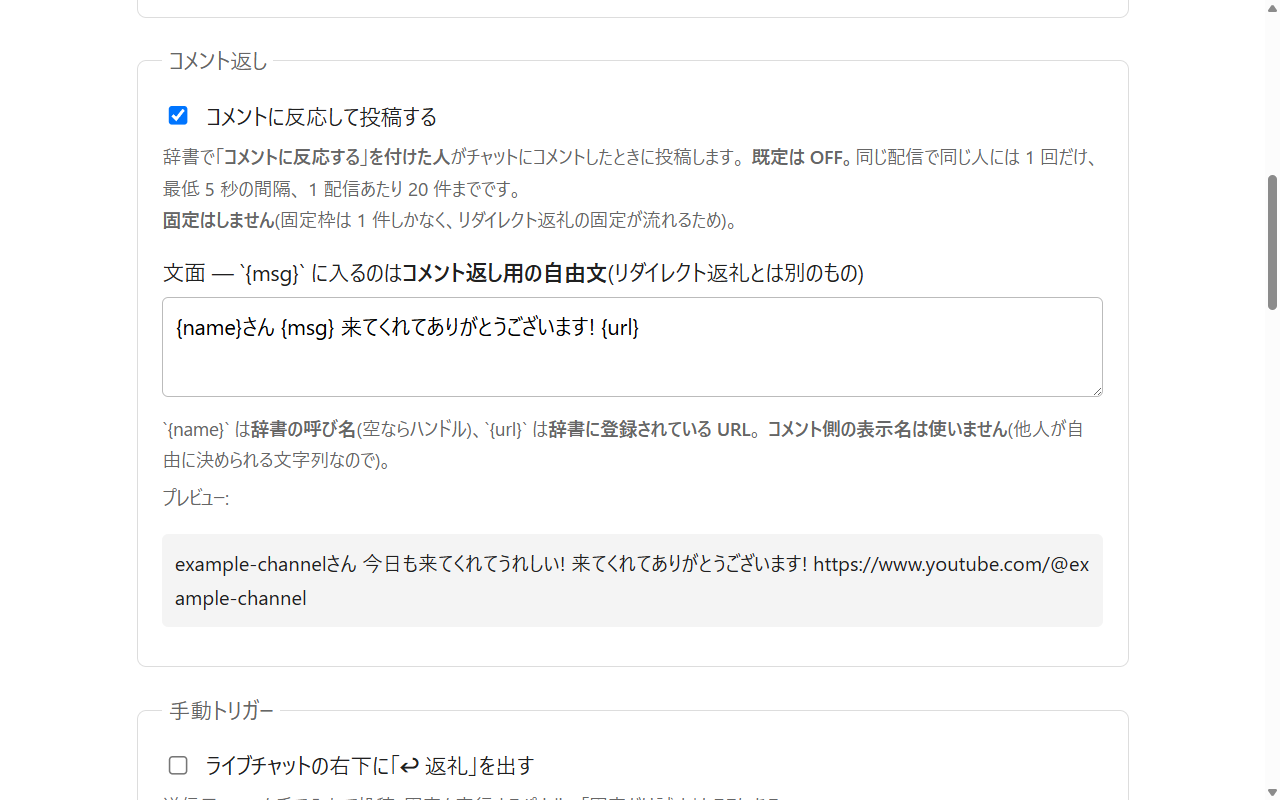
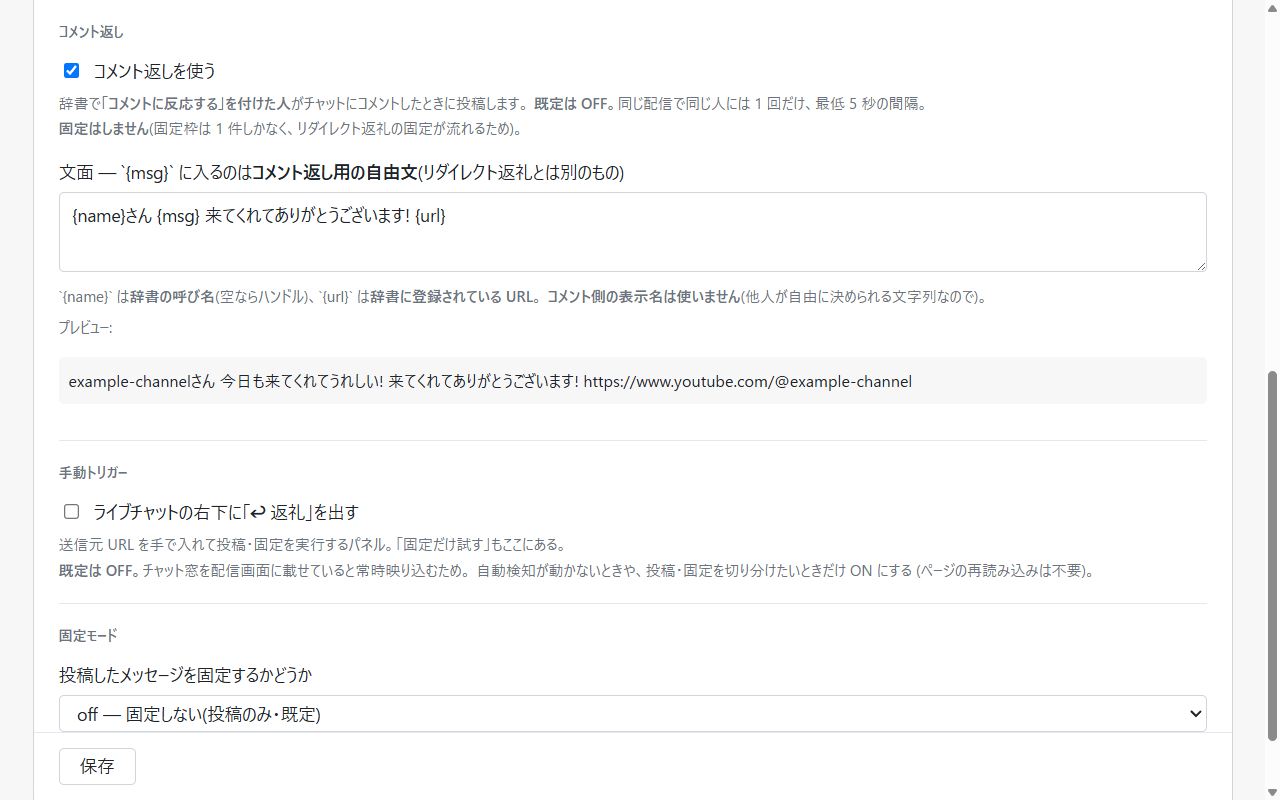
docs(007): 設定画面のスクリーンショットを 007 の画面で撮り直す (T12) (#161)
007 で設定画面を 4 タブ・左右分割に作り直したので、docs/assets の 4 枚が
すべて旧画面(fieldset の枠 / 削除済みのクールダウン欄 / ▸ の展開 / 旧ラベル)
のままになっていた。T12 が名指ししていた 1 と 3 に加え、同じく古くなった
2(固定モード)と 4(コメント返し)も撮り直した。

- npm run site-assets の版下を 1280x800 で撮り、PIL で 24 ビット RGB に変換
  (ストアの要件: アルファ無し)
- 見本データ(make-site-assets.mjs)を 007 に追随:
  zoom を 960px 前提に / storage.get の配列呼び出しに対応 /
  iconDataUrl・channelName を追加(アイコンは生成した SVG。実在チャンネルは使わない)/
  pinMode を既定の off に
- docs/index.html の alt を撮り直した絵に合わせた(1 / 2 / 3)
- store-submission.md の撮り直し日を更新

Closes #141

diff --git a/docs/index.html b/docs/index.html
@@ -432,7 +432,7 @@
           width="1280"
           height="800"
           loading="lazy"
-          alt="設定画面の上部。自動検知のチェックボックス、投稿文テンプレートの入力欄、その下に差し込み後のプレビューが表示されている"
+          alt="設定画面の上部。基本設定・辞書・履歴・開発の 4 つのタブのうち基本設定が選ばれ、studio.youtube.com でしか動かない旨の案内、「リダイレクト返礼を使う」のチェックボックス、投稿文テンプレートの入力欄、その下に差し込み後のプレビューが表示されている。下端に保存ボタン"
         />
         <figcaption>投稿文はプレビューを見ながら編集できる</figcaption>
       </figure>
@@ -491,7 +491,7 @@
           width="1280"
           height="800"
           loading="lazy"
-          alt="固定モードのプルダウンで ifEmpty が選ばれている"
+          alt="基本設定タブの下部。手動トリガーのチェックボックスと、固定モードのプルダウンで既定の off が選ばれている"
         />
         <figcaption>
           固定モードは事故の起きうる設定。<code>always</code> は告知などの既存の固定を消す
@@ -535,7 +535,7 @@
           width="1280"
           height="800"
           loading="lazy"
-          alt="呼び名の辞書の表。ハンドルと呼び名の行が並び、2 行目が開いて「コメントに反応する」のチェック、チャンネル ID、リダイレクト返礼用とコメント返し用の自由文 2 本が見えている。チャンネル ID を取得できていない行は色が付き ⚠ が出ている。末尾に新規登録用の入力欄がある"
+          alt="辞書タブ。左の一覧に 1 行 1 人でアイコン(未取得の行は頭文字の丸)・呼び名・ハンドルが並び、呼び名が空の行はチャンネルの表記名がグレーで出ている。チャンネル ID を取得できていない行には ⚠ が出ている。選んだ 1 行の詳細が右のペインに開き、リダイレクト返礼用とコメント返し用の自由文 2 本、「コメントに反応する」のチェックが見えている。左の上に絞り込み欄と「アイコンと表記名を取得」、下に手動で追加する欄がある"
         />
         <figcaption>
           リダイレクトを受けた相手は自動で載る (呼び名も自由文も空のまま)。<b>左の一覧から行をクリックすると、右のペインに自由文 2 本と「コメントに反応する」が開く</b>。<b>⚠ の行はコメントに反応しない</b>

diff --git a/docs/store-submission.md b/docs/store-submission.md
@@ -200,7 +200,7 @@ YouTube のライブ配信で他チャンネルからのライブリダイレク
 | | 要件 (実物の表記) | 手元のもの |
 |---|---|---|
 | ショップ アイコン **必須** | 128x128 | `public/icons/icon128.png` ✅ **RGBA だが問題ない** — 「アルファなし」の指定はアイコンには付いていない |
-| スクリーンショット **必須** | **1280x800 または 640x400** / **5 枚まで・最低 1 枚** / **JPEG または 24 ビット PNG (アルファなし)** | **4 枚とも 2026-08-23 に撮り直し済み** ✅ 1280x800・RGB 24 ビット (アルファなし) |
+| スクリーンショット **必須** | **1280x800 または 640x400** / **5 枚まで・最低 1 枚** / **JPEG または 24 ビット PNG (アルファなし)** | **4 枚とも 2026-09-14 に撮り直し済み**(007 の 4 タブ・左右分割の画面) ✅ 1280x800・RGB 24 ビット (アルファなし) |
 | プロモーション タイル (小) | 440x280 / JPEG または 24 ビット PNG (アルファなし) | `docs/assets/ogp-440x280.png` ✅ **そのまま使える** (RGB 24 ビット / アイコン + 名前 + 一行説明) |
 | マーキー プロモーション タイル | 1400x560 | 任意。**用意しない** |
 | 全言語向けプロモーション動画 | YouTube の URL | **任意** (`*` が付いていない)。**用意しない** |

diff --git a/specs/007-options-ui-tabs/tasks.md b/specs/007-options-ui-tabs/tasks.md
@@ -18,4 +18,4 @@ feature: options-ui-tabs
 - [x] T9: `resolveEntryChannelId` の取得を `resolveChannelPage` に差し替え、左ペインにアイコンとモノグラム、「アイコンをまとめて取得」ボタンを足す(T6・T7・T8 の後)  <!-- #138 -->
 - [x] T10: アイコンの AC14〜AC20 を `tests/options-dom.test.ts` で固定する(T9 の後)  <!-- #139 -->
 - [x] T11: README.md / docs/privacy-policy.md の通信の記述を更新し、docs/install.md・docs/setup-and-verify.md・docs/for-testers.md の `▸` を前提にした手順と設定画面の構成表を 4 タブへ書き換える(T10 の後)  <!-- #140 -->
-- [ ] T12: **人手** — `dist/` を Chrome に読み込んで設定画面を開き、`docs/assets/screenshot-1-options.png` と `screenshot-3-directory.png` を同じ構図で撮り直して差し替える(T11 の後)  <!-- #141 -->
+- [x] T12: **人手** — `dist/` を Chrome に読み込んで設定画面を開き、`docs/assets/screenshot-1-options.png` と `screenshot-3-directory.png` を同じ構図で撮り直して差し替える(T11 の後)  <!-- #141 -->
